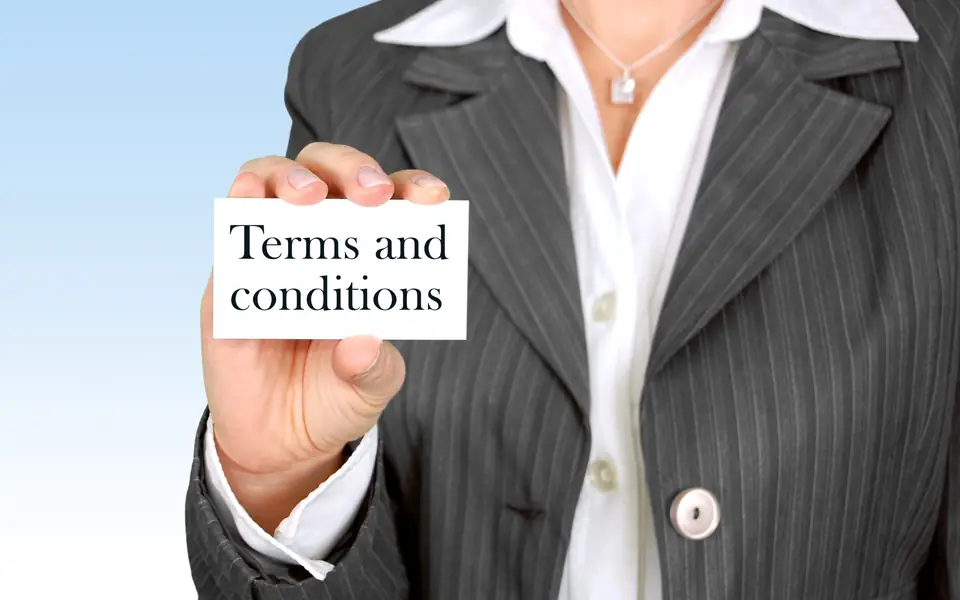
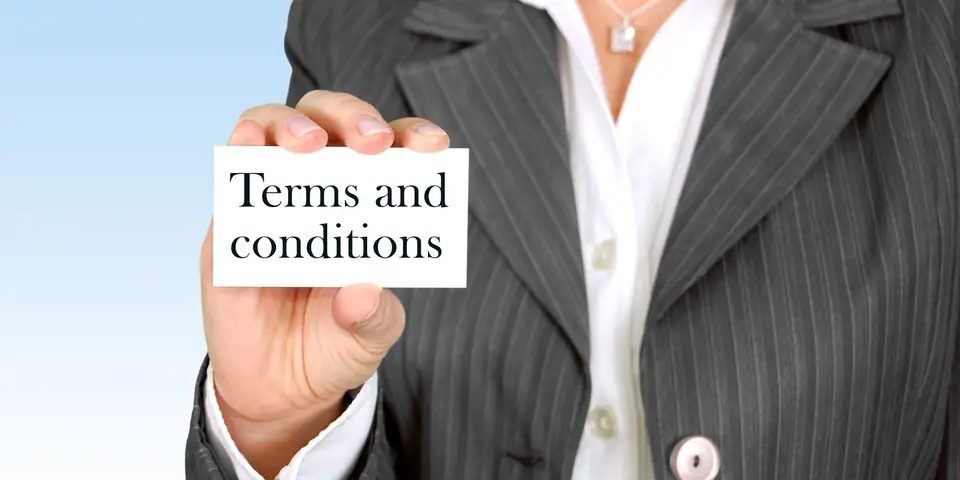
Todas las fotos en la misma proporción, marcos rectos y versión en estilos y guion

diff --git a/parte-1-isr.html b/parte-1-isr.html
@@ -9,7 +9,7 @@
 <link rel="preconnect" href="https://fonts.gstatic.com" crossorigin>
 <link rel="preload" as="style" href="https://fonts.googleapis.com/css2?family=Caveat:wght@500..700&family=Open+Sans:ital,wght@0,400..800;1,400&family=Playfair+Display:ital,wght@0,500..700;1,600&display=swap" onload="this.onload=null;this.rel='stylesheet'">
 <noscript><link rel="stylesheet" href="https://fonts.googleapis.com/css2?family=Caveat:wght@500..700&family=Open+Sans:ital,wght@0,400..800;1,400&family=Playfair+Display:ital,wght@0,500..700;1,600&display=swap"></noscript>
-<link rel="stylesheet" href="assets/estilos.css">
+<link rel="stylesheet" href="assets/estilos.css?v=0640c750">
 </head>
 <body>
 <a class="saltar" href="#contenido">Saltar al contenido</a>
@@ -34,7 +34,7 @@
   <p class="parte">Parte 1</p>
   <h1>Marco teórico de las ISR</h1>
   <p class="entradilla">Antes de mirar el índice hay que entender la idea que tiene detrás: invertir teniendo en cuenta algo más que el beneficio.</p>
-  <figure class="foto-banda"><img data-foto src="https://images.unsplash.com/photo-1579621970563-ebec7560ff3e?auto=format&amp;fit=crop&amp;w=1920&amp;h=810&amp;q=70" srcset="https://images.unsplash.com/photo-1579621970563-ebec7560ff3e?auto=format&amp;fit=crop&amp;w=640&amp;h=270&amp;q=70 640w, https://images.unsplash.com/photo-1579621970563-ebec7560ff3e?auto=format&amp;fit=crop&amp;w=1280&amp;h=540&amp;q=70 1280w, https://images.unsplash.com/photo-1579621970563-ebec7560ff3e?auto=format&amp;fit=crop&amp;w=1920&amp;h=810&amp;q=70 1920w" sizes="(max-width: 66rem) 94vw, 60rem" width="1920" height="810" alt="Una planta pequeña que crece sobre un montón de monedas." decoding="async"><figcaption><span class="foto-banda__pie">que el dinero también haga crecer algo</span><span class="foto-banda__credito">Foto: <a href="https://unsplash.com/photos/green-plant-on-brown-round-coins-lZ_4nPFKcV8">Micheile Henderson</a>, Unsplash</span></figcaption></figure>
+  <figure class="foto-banda"><img data-foto src="https://images.unsplash.com/photo-1579621970563-ebec7560ff3e?auto=format&amp;fit=crop&amp;w=1600&amp;h=800&amp;q=70" srcset="https://images.unsplash.com/photo-1579621970563-ebec7560ff3e?auto=format&amp;fit=crop&amp;w=800&amp;h=400&amp;q=70 800w, https://images.unsplash.com/photo-1579621970563-ebec7560ff3e?auto=format&amp;fit=crop&amp;w=1600&amp;h=800&amp;q=70 1600w" sizes="(max-width: 50rem) 92vw, 46rem" width="1600" height="800" alt="Una planta pequeña que crece sobre un montón de monedas." decoding="async"><figcaption><span class="foto-banda__pie">que el dinero también haga crecer algo</span><span class="foto-banda__credito">Foto: <a href="https://unsplash.com/photos/green-plant-on-brown-round-coins-lZ_4nPFKcV8">Micheile Henderson</a>, Unsplash</span></figcaption></figure>
   <ul class="indice-pagina">
     <li><a href="#definicion">1. Definición y características</a></li>
     <li><a href="#evolucion">Evolución histórica</a></li>
@@ -282,17 +282,17 @@
     <h3><span class="letra letra--e" aria-hidden="true">E</span>Factores ambientales</h3>
     <div class="rejilla rejilla--3">
       <article class="factor factor--e factor--foto">
-        <img class="factor__foto" data-foto src="https://images.unsplash.com/photo-1553897597-1cdcec3d8b29?auto=format&amp;fit=crop&amp;w=960&amp;h=600&amp;q=70" srcset="https://images.unsplash.com/photo-1553897597-1cdcec3d8b29?auto=format&amp;fit=crop&amp;w=480&amp;h=300&amp;q=70 480w, https://images.unsplash.com/photo-1553897597-1cdcec3d8b29?auto=format&amp;fit=crop&amp;w=960&amp;h=600&amp;q=70 960w" sizes="(max-width: 56rem) 92vw, 20rem" width="960" height="600" alt="Tres aerogeneradores blancos en un campo verde." loading="lazy" decoding="async">
+        <div class="factor__marco"><img class="factor__foto" data-foto src="https://images.unsplash.com/photo-1553897597-1cdcec3d8b29?auto=format&amp;fit=crop&amp;w=960&amp;h=480&amp;q=70" srcset="https://images.unsplash.com/photo-1553897597-1cdcec3d8b29?auto=format&amp;fit=crop&amp;w=480&amp;h=240&amp;q=70 480w, https://images.unsplash.com/photo-1553897597-1cdcec3d8b29?auto=format&amp;fit=crop&amp;w=960&amp;h=480&amp;q=70 960w" sizes="(max-width: 56rem) 92vw, 20rem" width="960" height="480" alt="Tres aerogeneradores blancos en un campo verde." loading="lazy" decoding="async"></div>
         <div class="factor__cartel"><div class="disco"><svg class="ilu" viewBox="0 0 48 48" aria-hidden="true"><path d="M24 6v22" stroke="currentColor" stroke-width="8" stroke-linecap="round"/><circle cx="24" cy="35" r="9" fill="currentColor"/><circle cx="24" cy="35" r="4" fill="#f08c3a"/><path d="M34 10h6M34 18h6M34 26h6" stroke="currentColor" stroke-width="2.5" stroke-linecap="round"/></svg></div><small>E · Ambiental</small><strong>Cambio climático</strong><span>Menos emisiones</span></div>
         <div class="factor__texto">Hoy es el factor principal. Se mira cuántos gases de efecto invernadero emite la empresa, si tiene un objetivo de cero emisiones y cuánta energía renovable usa.<br><span class="indicador">Indicador: emisiones de alcance 1, 2 y 3</span></div>
       </article>
       <article class="factor factor--e factor--foto">
-        <img class="factor__foto" data-foto src="assets/fotos/troncos-960.webp" srcset="assets/fotos/troncos-480.webp 480w, assets/fotos/troncos-960.webp 960w" sizes="(max-width: 56rem) 92vw, 20rem" width="960" height="600" alt="Troncos de madera apilados tras una tala." loading="lazy" decoding="async">
+        <div class="factor__marco"><img class="factor__foto" data-foto src="assets/fotos/troncos-960.webp" srcset="assets/fotos/troncos-480.webp 480w, assets/fotos/troncos-960.webp 960w" sizes="(max-width: 56rem) 92vw, 20rem" width="960" height="480" alt="Troncos de madera apilados tras una tala." loading="lazy" decoding="async"></div>
         <div class="factor__cartel"><div class="disco"><svg class="ilu" viewBox="0 0 48 48" aria-hidden="true"><g fill="none" stroke="currentColor" stroke-width="3.5" stroke-linecap="round" stroke-linejoin="round"><path d="M8 22a16 16 0 0 1 28-8"/><path d="M40 26a16 16 0 0 1-28 8"/></g><path d="M38 6v10H28z" fill="#f08c3a"/><path d="M10 42V32h10z" fill="#f08c3a"/></svg></div><small>E · Ambiental</small><strong>Gestión de recursos</strong><span>Agua, energía y residuos</span></div>
         <div class="factor__texto">Cómo gestiona el agua, la energía y las materias primas, y qué hace con los residuos. Si los reutiliza, avanza hacia una economía circular.<br><span class="indicador">Indicador: % de electricidad renovable</span></div>
       </article>
       <article class="factor factor--e factor--foto">
-        <img class="factor__foto" data-foto src="assets/fotos/puerto-960.webp" srcset="assets/fotos/puerto-480.webp 480w, assets/fotos/puerto-960.webp 960w" sizes="(max-width: 56rem) 92vw, 20rem" width="960" height="600" alt="Barcas de pesca amarradas en un puerto con el agua cubierta de plásticos." loading="lazy" decoding="async">
+        <div class="factor__marco"><img class="factor__foto" data-foto src="assets/fotos/puerto-960.webp" srcset="assets/fotos/puerto-480.webp 480w, assets/fotos/puerto-960.webp 960w" sizes="(max-width: 56rem) 92vw, 20rem" width="960" height="480" alt="Barcas de pesca amarradas en un puerto con el agua cubierta de plásticos." loading="lazy" decoding="async"></div>
         <div class="factor__cartel"><div class="disco"><svg class="ilu" viewBox="0 0 48 48" aria-hidden="true"><path d="M8 40C8 20 20 8 42 6c-2 22-14 34-34 34z" fill="none" stroke="currentColor" stroke-width="3.5" stroke-linejoin="round"/><path d="M8 40L28 20" stroke="currentColor" stroke-width="3.5" stroke-linecap="round"/><circle cx="34" cy="14" r="3.5" fill="#f08c3a"/></svg></div><small>E · Ambiental</small><strong>Biodiversidad</strong><span>Ecosistemas y especies</span></div>
         <div class="factor__texto">El efecto de su actividad sobre bosques, océanos y especies. Pesa más en sectores como la agricultura, la ganadería o la minería, donde también cuenta el trato a los animales.<br><span class="indicador">Indicador: hectáreas protegidas o restauradas</span></div>
       </article>
@@ -302,17 +302,17 @@
     <h3><span class="letra letra--s" aria-hidden="true">S</span>Factores sociales</h3>
     <div class="rejilla rejilla--3">
       <article class="factor factor--s factor--foto">
-        <img class="factor__foto" data-foto src="https://images.unsplash.com/photo-1746395592054-dc3aed101f72?auto=format&amp;fit=crop&amp;w=960&amp;h=600&amp;q=70" srcset="https://images.unsplash.com/photo-1746395592054-dc3aed101f72?auto=format&amp;fit=crop&amp;w=480&amp;h=300&amp;q=70 480w, https://images.unsplash.com/photo-1746395592054-dc3aed101f72?auto=format&amp;fit=crop&amp;w=960&amp;h=600&amp;q=70 960w" sizes="(max-width: 56rem) 92vw, 20rem" width="960" height="600" alt="Manos cosiendo prendas con máquinas de coser en un taller." loading="lazy" decoding="async">
+        <div class="factor__marco"><img class="factor__foto" data-foto src="https://images.unsplash.com/photo-1746395592054-dc3aed101f72?auto=format&amp;fit=crop&amp;w=960&amp;h=480&amp;q=70" srcset="https://images.unsplash.com/photo-1746395592054-dc3aed101f72?auto=format&amp;fit=crop&amp;w=480&amp;h=240&amp;q=70 480w, https://images.unsplash.com/photo-1746395592054-dc3aed101f72?auto=format&amp;fit=crop&amp;w=960&amp;h=480&amp;q=70 960w" sizes="(max-width: 56rem) 92vw, 20rem" width="960" height="480" alt="Manos cosiendo prendas con máquinas de coser en un taller." loading="lazy" decoding="async"></div>
         <div class="factor__cartel"><div class="disco"><svg class="ilu" viewBox="0 0 48 48" aria-hidden="true"><path d="M24 4l16 6v12c0 10-6 18-16 22C14 40 8 32 8 22V10z" fill="none" stroke="currentColor" stroke-width="3.5" stroke-linejoin="round"/><path d="M16 23l6 6 11-12" fill="none" stroke="#f08c3a" stroke-width="4" stroke-linecap="round" stroke-linejoin="round"/></svg></div><small>S · Social</small><strong>Derechos humanos</strong><span>Sin trabajo forzoso ni infantil</span></div>
         <div class="factor__texto">Se comprueba que no se vulneran en la empresa ni en sus proveedores, sobre todo los riesgos más típicos: el trabajo forzoso y el infantil. La referencia son los Principios Rectores de la ONU.<br><span class="indicador">Indicador: auditorías sociales realizadas</span></div>
       </article>
       <article class="factor factor--s factor--foto">
-        <img class="factor__foto" data-foto src="assets/fotos/condiciones-960.webp" srcset="assets/fotos/condiciones-480.webp 480w, assets/fotos/condiciones-960.webp 960w" sizes="(max-width: 56rem) 92vw, 20rem" width="960" height="600" alt="Una persona con traje sostiene una tarjeta con el texto «Terms and conditions»." loading="lazy" decoding="async">
+        <div class="factor__marco"><img class="factor__foto" data-foto src="assets/fotos/condiciones-960.webp" srcset="assets/fotos/condiciones-480.webp 480w, assets/fotos/condiciones-960.webp 960w" sizes="(max-width: 56rem) 92vw, 20rem" width="960" height="480" alt="Una persona con traje sostiene una tarjeta con el texto «Terms and conditions»." loading="lazy" decoding="async"></div>
         <div class="factor__cartel"><div class="disco"><svg class="ilu" viewBox="0 0 48 48" aria-hidden="true"><rect x="5" y="15" width="38" height="25" rx="3" fill="none" stroke="currentColor" stroke-width="3.5"/><path d="M17 15v-5a2 2 0 0 1 2-2h10a2 2 0 0 1 2 2v5" fill="none" stroke="currentColor" stroke-width="3.5"/><path d="M5 26h38" stroke="currentColor" stroke-width="3"/><rect x="20" y="23" width="8" height="6" rx="1" fill="#f08c3a"/></svg></div><small>S · Social</small><strong>Condiciones laborales</strong><span>Seguridad y salario digno</span></div>
         <div class="factor__texto">Cómo se trata al trabajador: seguridad, salud mental, flexibilidad de horario y un salario digno por el trabajo realizado.<br><span class="indicador">Indicador: % de contratos indefinidos</span></div>
       </article>
       <article class="factor factor--s factor--foto">
-        <img class="factor__foto" data-foto src="assets/fotos/imanes-960.webp" srcset="assets/fotos/imanes-480.webp 480w, assets/fotos/imanes-960.webp 960w" sizes="(max-width: 56rem) 92vw, 20rem" width="960" height="600" alt="Puerta de un frigorífico cubierta de imanes de recuerdo de muchos países." loading="lazy" decoding="async">
+        <div class="factor__marco"><img class="factor__foto" data-foto src="assets/fotos/imanes-960.webp" srcset="assets/fotos/imanes-480.webp 480w, assets/fotos/imanes-960.webp 960w" sizes="(max-width: 56rem) 92vw, 20rem" width="960" height="480" alt="Puerta de un frigorífico cubierta de imanes de recuerdo de muchos países." loading="lazy" decoding="async"></div>
         <div class="factor__cartel"><div class="disco"><svg class="ilu" viewBox="0 0 56 48" aria-hidden="true"><g fill="currentColor"><circle cx="12" cy="16" r="6"/><path d="M2 40a10 10 0 0 1 20 0z"/><circle cx="44" cy="16" r="6"/><path d="M34 40a10 10 0 0 1 20 0z"/></g><circle cx="28" cy="12" r="7" fill="#f08c3a"/><path d="M16 42a12 12 0 0 1 24 0z" fill="#f08c3a"/></svg></div><small>S · Social</small><strong>Diversidad</strong><span>Igualdad sin discriminación</span></div>
         <div class="factor__texto">Que personas con discapacidad, de otras etnias y mujeres trabajen sin discriminación, y que se reduzca la brecha salarial entre hombres y mujeres.<br><span class="indicador">Indicador: % de mujeres en puestos directivos</span></div>
       </article>
@@ -322,17 +322,17 @@
     <h3><span class="letra letra--g" aria-hidden="true">G</span>Factores de gobernanza</h3>
     <div class="rejilla rejilla--3">
       <article class="factor factor--g factor--foto">
-        <img class="factor__foto" data-foto src="https://images.unsplash.com/photo-1431540015161-0bf868a2d407?auto=format&amp;fit=crop&amp;w=960&amp;h=600&amp;q=70" srcset="https://images.unsplash.com/photo-1431540015161-0bf868a2d407?auto=format&amp;fit=crop&amp;w=480&amp;h=300&amp;q=70 480w, https://images.unsplash.com/photo-1431540015161-0bf868a2d407?auto=format&amp;fit=crop&amp;w=960&amp;h=600&amp;q=70 960w" sizes="(max-width: 56rem) 92vw, 20rem" width="960" height="600" alt="Sala de juntas vacía con una mesa ovalada de madera y sillas alrededor." loading="lazy" decoding="async">
+        <div class="factor__marco"><img class="factor__foto" data-foto src="https://images.unsplash.com/photo-1431540015161-0bf868a2d407?auto=format&amp;fit=crop&amp;w=960&amp;h=480&amp;q=70" srcset="https://images.unsplash.com/photo-1431540015161-0bf868a2d407?auto=format&amp;fit=crop&amp;w=480&amp;h=240&amp;q=70 480w, https://images.unsplash.com/photo-1431540015161-0bf868a2d407?auto=format&amp;fit=crop&amp;w=960&amp;h=480&amp;q=70 960w" sizes="(max-width: 56rem) 92vw, 20rem" width="960" height="480" alt="Sala de juntas vacía con una mesa ovalada de madera y sillas alrededor." loading="lazy" decoding="async"></div>
         <div class="factor__cartel"><div class="disco"><svg class="ilu" viewBox="0 0 56 48" aria-hidden="true"><rect x="20" y="4" width="16" height="11" rx="2" fill="#f08c3a"/><path d="M28 15v9M9 32v-8h38v8M28 24v8" fill="none" stroke="currentColor" stroke-width="3"/><g fill="currentColor"><rect x="2" y="32" width="14" height="11" rx="2"/><rect x="21" y="32" width="14" height="11" rx="2"/><rect x="40" y="32" width="14" height="11" rx="2"/></g></svg></div><small>G · Gobernanza</small><strong>Estructura directiva</strong><span>Un consejo equilibrado</span></div>
         <div class="factor__texto">Quién compone el consejo de administración, cuántos consejeros son independientes y si los sueldos de los altos directivos están justificados.<br><span class="indicador">Indicador: % de consejeros independientes</span></div>
       </article>
       <article class="factor factor--g factor--foto">
-        <img class="factor__foto" data-foto src="https://images.unsplash.com/photo-1609877992115-8cd060c2e9e4?auto=format&amp;fit=crop&amp;w=960&amp;h=600&amp;q=70" srcset="https://images.unsplash.com/photo-1609877992115-8cd060c2e9e4?auto=format&amp;fit=crop&amp;w=480&amp;h=300&amp;q=70 480w, https://images.unsplash.com/photo-1609877992115-8cd060c2e9e4?auto=format&amp;fit=crop&amp;w=960&amp;h=600&amp;q=70 960w" sizes="(max-width: 56rem) 92vw, 20rem" width="960" height="600" alt="Una lupa negra apoyada sobre hojas de papel." loading="lazy" decoding="async">
+        <div class="factor__marco"><img class="factor__foto" data-foto src="https://images.unsplash.com/photo-1609877992115-8cd060c2e9e4?auto=format&amp;fit=crop&amp;w=960&amp;h=480&amp;q=70" srcset="https://images.unsplash.com/photo-1609877992115-8cd060c2e9e4?auto=format&amp;fit=crop&amp;w=480&amp;h=240&amp;q=70 480w, https://images.unsplash.com/photo-1609877992115-8cd060c2e9e4?auto=format&amp;fit=crop&amp;w=960&amp;h=480&amp;q=70 960w" sizes="(max-width: 56rem) 92vw, 20rem" width="960" height="480" alt="Una lupa negra apoyada sobre hojas de papel." loading="lazy" decoding="async"></div>
         <div class="factor__cartel"><div class="disco"><svg class="ilu" viewBox="0 0 64 48" aria-hidden="true"><path d="M4 24c8-12 18-17 28-17s20 5 28 17c-8 12-18 17-28 17S12 36 4 24z" fill="none" stroke="currentColor" stroke-width="4" stroke-linejoin="round"/><circle cx="32" cy="24" r="9" fill="#f08c3a"/><circle cx="32" cy="24" r="3.5" fill="currentColor"/></svg></div><small>G · Gobernanza</small><strong>Transparencia</strong><span>Cuentas claras y públicas</span></div>
         <div class="factor__texto">Si la empresa informa bien de sus cuentas y de sus riesgos: informes financieros, datos ESG e informe de sostenibilidad.<br><span class="indicador">Indicador: informe de sostenibilidad verificado</span></div>
       </article>
       <article class="factor factor--g factor--foto">
-        <img class="factor__foto" data-foto src="https://images.unsplash.com/photo-1587740896339-96a76170508d?auto=format&amp;fit=crop&amp;w=960&amp;h=600&amp;q=70" srcset="https://images.unsplash.com/photo-1587740896339-96a76170508d?auto=format&amp;fit=crop&amp;w=480&amp;h=300&amp;q=70 480w, https://images.unsplash.com/photo-1587740896339-96a76170508d?auto=format&amp;fit=crop&amp;w=960&amp;h=600&amp;q=70 960w" sizes="(max-width: 56rem) 92vw, 20rem" width="960" height="600" alt="Una pequeña balanza dorada sobre una superficie de madera." loading="lazy" decoding="async">
+        <div class="factor__marco"><img class="factor__foto" data-foto src="https://images.unsplash.com/photo-1587740896339-96a76170508d?auto=format&amp;fit=crop&amp;w=960&amp;h=480&amp;q=70" srcset="https://images.unsplash.com/photo-1587740896339-96a76170508d?auto=format&amp;fit=crop&amp;w=480&amp;h=240&amp;q=70 480w, https://images.unsplash.com/photo-1587740896339-96a76170508d?auto=format&amp;fit=crop&amp;w=960&amp;h=480&amp;q=70 960w" sizes="(max-width: 56rem) 92vw, 20rem" width="960" height="480" alt="Una pequeña balanza dorada sobre una superficie de madera." loading="lazy" decoding="async"></div>
         <div class="factor__cartel"><div class="disco"><svg class="ilu" viewBox="0 0 56 48" aria-hidden="true"><g fill="none" stroke="currentColor" stroke-width="3" stroke-linecap="round" stroke-linejoin="round"><path d="M28 6v34M20 42h16M8 12h40M12 12L6 26M12 12l6 14M44 12l-6 14M44 12l6 14"/></g><path d="M5 26h14a7 7 0 0 1-14 0zM37 26h14a7 7 0 0 1-14 0z" fill="#f08c3a"/></svg></div><small>G · Gobernanza</small><strong>Ética empresarial</strong><span>Sin corrupción ni fraude</span></div>
         <div class="factor__texto">Que no esté implicada en casos de corrupción o soborno, que tenga un código ético y un canal de denuncias anónimo para los empleados.<br><span class="indicador">Indicador: código de conducta y canal ético</span></div>
       </article>
@@ -363,6 +363,6 @@
 <p class="pie">Trabajo de clase elaborado por Marcos Ramos, Gonzalo Redondo, Jaime Ramos y Victor Cerveros. Las cifras llevan su fecha y su fuente; la lista completa está en <a href="referencias.html">Referencias y webs</a>.</p>
 </main>
 </div>
-<script src="assets/sitio.js" defer></script>
+<script src="assets/sitio.js?v=0640c750" defer></script>
 </body>
 </html>

diff --git a/assets/estilos.css b/assets/estilos.css
@@ -720,21 +720,25 @@ h3 { font-weight: 600; color: var(--azul-titulo); }
 .escalera .nota { max-width: none; }
 
 /* =====================================================================
-   Fotografías: en las tarjetas de factor y a lo ancho en cabeceras
+   Fotografías: todas en la misma proporción (2:1, la de las láminas
+   del carrusel) y con el marco recto, sin salirse de su caja
    ===================================================================== */
 
-/* Tarjeta de factor con foto arriba y el icono montado sobre el borde */
-.factor__foto { display: block; width: 100%; height: auto; aspect-ratio: 8 / 5; object-fit: cover; background: var(--lavanda-suave); }
+:root { --foto: 2 / 1; }
+
+/* Tarjeta de factor: foto arriba y el icono montado sobre el borde */
+.factor__marco { aspect-ratio: var(--foto); overflow: hidden; background: var(--lavanda-suave); }
+.factor__foto { display: block; width: 100%; height: 100%; object-fit: cover; }
 .factor--foto .factor__cartel { padding-top: 0; gap: 0.35rem; }
 .factor--foto .factor__cartel .disco { width: 4.4rem; height: 4.4rem; margin-top: -2.2rem; margin-bottom: 0.25rem; border: 4px solid var(--c); position: relative; }
 .factor--foto .factor__cartel .disco .ilu { width: 2.4rem; height: 2.4rem; }
+/* Si la foto no carga, queda un bloque del color del factor con la misma medida */
+.factor--sin-foto .factor__marco { background: var(--c); }
 .factor--sin-foto .factor__foto { display: none; }
-.factor--sin-foto .factor__cartel { padding-top: 1.1rem; }
-.factor--sin-foto .factor__cartel .disco { margin-top: 0; }
 
-/* Foto ancha: copia en papel un poco torcida, sujeta con cinta y con pie a mano */
-.foto-banda { position: relative; margin: var(--e3) auto 0; max-width: 60rem; }
-.foto-banda img { display: block; width: 100%; height: auto; aspect-ratio: 64 / 27; object-fit: cover; background: var(--lavanda-suave); border: 0.45rem solid #fff; border-radius: 3px; box-shadow: 0 0 0 1.5px var(--tinta), 5px 6px 0 var(--lavanda); transform: rotate(-0.5deg); }
+/* Foto ancha: copia en papel sujeta con cinta y con pie a mano */
+.foto-banda { position: relative; margin: var(--e3) auto 0; max-width: 46rem; }
+.foto-banda img { display: block; box-sizing: border-box; width: 100%; height: auto; aspect-ratio: var(--foto); object-fit: cover; background: var(--lavanda-suave); border: 0.4rem solid #fff; border-radius: 3px; box-shadow: 0 0 0 1.5px var(--tinta), 5px 6px 0 var(--lavanda); }
 .foto-banda::before { content: ""; position: absolute; z-index: 1; top: -0.7rem; left: 50%; width: 6rem; height: 1.5rem; margin-left: -3rem; background: rgba(240, 140, 58, 0.72); transform: rotate(-2.5deg); }
 .foto-banda figcaption { display: flex; flex-wrap: wrap; justify-content: center; align-items: baseline; gap: 0.2rem 0.9rem; margin-top: 1rem; }
 .foto-banda__pie { font-family: var(--mano); font-weight: 600; font-size: 1.4rem; line-height: 1.15; color: var(--pino); }
@@ -742,9 +746,12 @@ h3 { font-weight: 600; color: var(--azul-titulo); }
 .foto-banda__credito a { color: inherit; }
 .cabecera .foto-banda + .indice-pagina { margin-top: var(--e3); }
 .seccion > .foto-banda { margin-top: var(--e3); }
-.seccion:nth-of-type(even) > .foto-banda img, .cabecera + .seccion > .foto-banda img { transform: rotate(0.5deg); }
+
+/* El carrusel usa la misma proporción y tampoco deja que la lámina se salga */
+.carrusel__lamina { aspect-ratio: var(--foto); overflow: hidden; }
+.carrusel__lamina img { width: 100%; height: 100%; object-fit: cover; }
 
 @media (max-width: 56rem) {
-  .foto-banda img { aspect-ratio: 16 / 9; border-width: 0.3rem; transform: none; box-shadow: 0 0 0 1.5px var(--tinta), 3px 4px 0 var(--lavanda); }
+  .foto-banda img { border-width: 0.3rem; box-shadow: 0 0 0 1.5px var(--tinta), 3px 4px 0 var(--lavanda); }
   .foto-banda__pie { font-size: 1.25rem; }
 }

diff --git a/index.html b/index.html
@@ -9,7 +9,7 @@
 <link rel="preconnect" href="https://fonts.gstatic.com" crossorigin>
 <link rel="preload" as="style" href="https://fonts.googleapis.com/css2?family=Caveat:wght@500..700&family=Open+Sans:ital,wght@0,400..800;1,400&family=Playfair+Display:ital,wght@0,500..700;1,600&display=swap" onload="this.onload=null;this.rel='stylesheet'">
 <noscript><link rel="stylesheet" href="https://fonts.googleapis.com/css2?family=Caveat:wght@500..700&family=Open+Sans:ital,wght@0,400..800;1,400&family=Playfair+Display:ital,wght@0,500..700;1,600&display=swap"></noscript>
-<link rel="stylesheet" href="assets/estilos.css">
+<link rel="stylesheet" href="assets/estilos.css?v=0640c750">
 </head>
 <body>
 <a class="saltar" href="#contenido">Saltar al contenido</a>
@@ -65,7 +65,7 @@
   <p>Durante décadas, invertir consistía en comparar dos cosas: cuánto se puede ganar y cuánto riesgo se asume. Hoy muchos inversores añaden una tercera pregunta: qué efecto tiene la empresa sobre el medio ambiente, sobre las personas y cómo está gobernada.</p>
   <p>Esa tercera pregunta es la base de las Inversiones Socialmente Responsables. Para responderla hacen falta datos comparables, y ahí entran los índices sostenibles como el IBEX ESG: convierten la sostenibilidad en una lista concreta de empresas que cumplen unas reglas.</p>
 
-  <figure class="foto-banda"><img data-foto src="https://images.unsplash.com/photo-1767424412548-1a1ac7f4b9bc?auto=format&amp;fit=crop&amp;w=1920&amp;h=810&amp;q=70" srcset="https://images.unsplash.com/photo-1767424412548-1a1ac7f4b9bc?auto=format&amp;fit=crop&amp;w=640&amp;h=270&amp;q=70 640w, https://images.unsplash.com/photo-1767424412548-1a1ac7f4b9bc?auto=format&amp;fit=crop&amp;w=1280&amp;h=540&amp;q=70 1280w, https://images.unsplash.com/photo-1767424412548-1a1ac7f4b9bc?auto=format&amp;fit=crop&amp;w=1920&amp;h=810&amp;q=70 1920w" sizes="(max-width: 66rem) 94vw, 60rem" width="1920" height="810" alt="Gráficos de cotización en varias pantallas y una tableta." decoding="async"><figcaption><span class="foto-banda__pie">durante décadas solo se miraban dos cosas: rentabilidad y riesgo</span><span class="foto-banda__credito">Foto: <a href="https://unsplash.com/photos/trading-charts-displayed-on-multiple-screens-and-tablet-vKNRKjSNbTo">Jakub Żerdzicki</a>, Unsplash</span></figcaption></figure>
+  <figure class="foto-banda"><img data-foto src="https://images.unsplash.com/photo-1767424412548-1a1ac7f4b9bc?auto=format&amp;fit=crop&amp;w=1600&amp;h=800&amp;q=70" srcset="https://images.unsplash.com/photo-1767424412548-1a1ac7f4b9bc?auto=format&amp;fit=crop&amp;w=800&amp;h=400&amp;q=70 800w, https://images.unsplash.com/photo-1767424412548-1a1ac7f4b9bc?auto=format&amp;fit=crop&amp;w=1600&amp;h=800&amp;q=70 1600w" sizes="(max-width: 50rem) 92vw, 46rem" width="1600" height="800" alt="Gráficos de cotización en varias pantallas y una tableta." decoding="async"><figcaption><span class="foto-banda__pie">durante décadas solo se miraban dos cosas: rentabilidad y riesgo</span><span class="foto-banda__credito">Foto: <a href="https://unsplash.com/photos/trading-charts-displayed-on-multiple-screens-and-tablet-vKNRKjSNbTo">Jakub Żerdzicki</a>, Unsplash</span></figcaption></figure>
 
   <div class="cambio">
     <div>
@@ -137,6 +137,6 @@
 <p class="pie">Trabajo de clase elaborado por Marcos Ramos, Gonzalo Redondo, Jaime Ramos y Victor Cerveros. Las cifras llevan su fecha y su fuente; la lista completa está en <a href="referencias.html">Referencias y webs</a>.</p>
 </main>
 </div>
-<script src="assets/sitio.js" defer></script>
+<script src="assets/sitio.js?v=0640c750" defer></script>
 </body>
 </html>

diff --git a/parte-4-reflexion.html b/parte-4-reflexion.html
@@ -9,7 +9,7 @@
 <link rel="preconnect" href="https://fonts.gstatic.com" crossorigin>
 <link rel="preload" as="style" href="https://fonts.googleapis.com/css2?family=Caveat:wght@500..700&family=Open+Sans:ital,wght@0,400..800;1,400&family=Playfair+Display:ital,wght@0,500..700;1,600&display=swap" onload="this.onload=null;this.rel='stylesheet'">
 <noscript><link rel="stylesheet" href="https://fonts.googleapis.com/css2?family=Caveat:wght@500..700&family=Open+Sans:ital,wght@0,400..800;1,400&family=Playfair+Display:ital,wght@0,500..700;1,600&display=swap"></noscript>
-<link rel="stylesheet" href="assets/estilos.css">
+<link rel="stylesheet" href="assets/estilos.css?v=0640c750">
 </head>
 <body>
 <a class="saltar" href="#contenido">Saltar al contenido</a>
@@ -34,7 +34,7 @@
   <p class="parte">Parte 4</p>
   <h1>Reflexión crítica</h1>
   <p class="entradilla">Después de estudiar el índice y una de sus empresas, valoramos para qué sirve de verdad el IBEX ESG, qué deja sin resolver y hacia dónde va la inversión responsable en España.</p>
-  <figure class="foto-banda"><img data-foto src="https://images.unsplash.com/photo-1573166364839-1bfe9196c23e?auto=format&amp;fit=crop&amp;w=1920&amp;h=810&amp;q=70" srcset="https://images.unsplash.com/photo-1573166364839-1bfe9196c23e?auto=format&amp;fit=crop&amp;w=640&amp;h=270&amp;q=70 640w, https://images.unsplash.com/photo-1573166364839-1bfe9196c23e?auto=format&amp;fit=crop&amp;w=1280&amp;h=540&amp;q=70 1280w, https://images.unsplash.com/photo-1573166364839-1bfe9196c23e?auto=format&amp;fit=crop&amp;w=1920&amp;h=810&amp;q=70 1920w" sizes="(max-width: 66rem) 94vw, 60rem" width="1920" height="810" alt="Varias personas reunidas alrededor de una mesa de trabajo." decoding="async"><figcaption><span class="foto-banda__pie">toca debatir: ¿sirve de verdad el índice?</span><span class="foto-banda__credito">Foto: <a href="https://unsplash.com/photos/people-having-meeting-on-rectangular-brown-table-ftCWdZOFZqo">Christina (wocintechchat.com)</a>, Unsplash</span></figcaption></figure>
+  <figure class="foto-banda"><img data-foto src="https://images.unsplash.com/photo-1573166364839-1bfe9196c23e?auto=format&amp;fit=crop&amp;w=1600&amp;h=800&amp;q=70" srcset="https://images.unsplash.com/photo-1573166364839-1bfe9196c23e?auto=format&amp;fit=crop&amp;w=800&amp;h=400&amp;q=70 800w, https://images.unsplash.com/photo-1573166364839-1bfe9196c23e?auto=format&amp;fit=crop&amp;w=1600&amp;h=800&amp;q=70 1600w" sizes="(max-width: 50rem) 92vw, 46rem" width="1600" height="800" alt="Varias personas reunidas alrededor de una mesa de trabajo." decoding="async"><figcaption><span class="foto-banda__pie">toca debatir: ¿sirve de verdad el índice?</span><span class="foto-banda__credito">Foto: <a href="https://unsplash.com/photos/people-having-meeting-on-rectangular-brown-table-ftCWdZOFZqo">Christina (wocintechchat.com)</a>, Unsplash</span></figcaption></figure>
   <ul class="indice-pagina">
     <li><a href="#ventajas-limitaciones">1. Ventajas y limitaciones</a></li>
     <li><a href="#competitividad">Impacto en la competitividad</a></li>
@@ -220,6 +220,6 @@
 <p class="pie">Trabajo de clase elaborado por Marcos Ramos, Gonzalo Redondo, Jaime Ramos y Victor Cerveros. Las cifras llevan su fecha y su fuente; la lista completa está en <a href="referencias.html">Referencias y webs</a>.</p>
 </main>
 </div>
-<script src="assets/sitio.js" defer></script>
+<script src="assets/sitio.js?v=0640c750" defer></script>
 </body>
 </html>

diff --git a/parte-2-ibex-esg.html b/parte-2-ibex-esg.html
@@ -9,7 +9,7 @@
 <link rel="preconnect" href="https://fonts.gstatic.com" crossorigin>
 <link rel="preload" as="style" href="https://fonts.googleapis.com/css2?family=Caveat:wght@500..700&family=Open+Sans:ital,wght@0,400..800;1,400&family=Playfair+Display:ital,wght@0,500..700;1,600&display=swap" onload="this.onload=null;this.rel='stylesheet'">
 <noscript><link rel="stylesheet" href="https://fonts.googleapis.com/css2?family=Caveat:wght@500..700&family=Open+Sans:ital,wght@0,400..800;1,400&family=Playfair+Display:ital,wght@0,500..700;1,600&display=swap"></noscript>
-<link rel="stylesheet" href="assets/estilos.css">
+<link rel="stylesheet" href="assets/estilos.css?v=0640c750">
 </head>
 <body>
 <a class="saltar" href="#contenido">Saltar al contenido</a>
@@ -34,7 +34,7 @@
   <p class="parte">Parte 2</p>
   <h1>Qué es el índice IBEX ESG</h1>
   <p class="entradilla">Un índice que parte de las empresas del IBEX 35 y del IBEX Medium Cap y se queda solo con las que superan cuatro filtros de sostenibilidad.</p>
-  <figure class="foto-banda"><img data-foto src="https://images.unsplash.com/photo-1639133037499-31d957fad7fd?auto=format&amp;fit=crop&amp;w=1920&amp;h=810&amp;q=70" srcset="https://images.unsplash.com/photo-1639133037499-31d957fad7fd?auto=format&amp;fit=crop&amp;w=640&amp;h=270&amp;q=70 640w, https://images.unsplash.com/photo-1639133037499-31d957fad7fd?auto=format&amp;fit=crop&amp;w=1280&amp;h=540&amp;q=70 1280w, https://images.unsplash.com/photo-1639133037499-31d957fad7fd?auto=format&amp;fit=crop&amp;w=1920&amp;h=810&amp;q=70 1920w" sizes="(max-width: 66rem) 94vw, 60rem" width="1920" height="810" alt="Fachada con columnas de la Bolsa de Madrid, en blanco y negro." decoding="async"><figcaption><span class="foto-banda__pie">el Palacio de la Bolsa de Madrid, sede de BME</span><span class="foto-banda__credito">Foto: <a href="https://unsplash.com/photos/a-black-and-white-photo-of-a-building-with-columns-m1vk1Rn0my8">L’Odyssée Belle</a>, Unsplash</span></figcaption></figure>
+  <figure class="foto-banda"><img data-foto src="https://images.unsplash.com/photo-1639133037499-31d957fad7fd?auto=format&amp;fit=crop&amp;w=1600&amp;h=800&amp;q=70" srcset="https://images.unsplash.com/photo-1639133037499-31d957fad7fd?auto=format&amp;fit=crop&amp;w=800&amp;h=400&amp;q=70 800w, https://images.unsplash.com/photo-1639133037499-31d957fad7fd?auto=format&amp;fit=crop&amp;w=1600&amp;h=800&amp;q=70 1600w" sizes="(max-width: 50rem) 92vw, 46rem" width="1600" height="800" alt="Fachada con columnas de la Bolsa de Madrid, en blanco y negro." decoding="async"><figcaption><span class="foto-banda__pie">el Palacio de la Bolsa de Madrid, sede de BME</span><span class="foto-banda__credito">Foto: <a href="https://unsplash.com/photos/a-black-and-white-photo-of-a-building-with-columns-m1vk1Rn0my8">L’Odyssée Belle</a>, Unsplash</span></figcaption></figure>
   <ul class="indice-pagina">
     <li><a href="#caracteristicas">1. Características generales</a></li>
     <li><a href="#requisitos">2. Requisitos de inclusión</a></li>
@@ -327,6 +327,6 @@
 <p class="pie">Trabajo de clase elaborado por Marcos Ramos, Gonzalo Redondo, Jaime Ramos y Victor Cerveros. Las cifras llevan su fecha y su fuente; la lista completa está en <a href="referencias.html">Referencias y webs</a>.</p>
 </main>
 </div>
-<script src="assets/sitio.js" defer></script>
+<script src="assets/sitio.js?v=0640c750" defer></script>
 </body>
 </html>

diff --git a/parte-3-inditex.html b/parte-3-inditex.html
@@ -9,7 +9,7 @@
 <link rel="preconnect" href="https://fonts.gstatic.com" crossorigin>
 <link rel="preload" as="style" href="https://fonts.googleapis.com/css2?family=Caveat:wght@500..700&family=Open+Sans:ital,wght@0,400..800;1,400&family=Playfair+Display:ital,wght@0,500..700;1,600&display=swap" onload="this.onload=null;this.rel='stylesheet'">
 <noscript><link rel="stylesheet" href="https://fonts.googleapis.com/css2?family=Caveat:wght@500..700&family=Open+Sans:ital,wght@0,400..800;1,400&family=Playfair+Display:ital,wght@0,500..700;1,600&display=swap"></noscript>
-<link rel="stylesheet" href="assets/estilos.css">
+<link rel="stylesheet" href="assets/estilos.css?v=0640c750">
 </head>
 <body>
 <a class="saltar" href="#contenido">Saltar al contenido</a>
@@ -34,7 +34,7 @@
   <p class="parte">Parte 3</p>
   <h1>Análisis de empresa: Inditex</h1>
   <p class="entradilla">Elegimos una empresa del IBEX ESG para comprobar cómo se traducen los criterios E, S y G en decisiones, cifras e informes reales.</p>
-  <figure class="foto-banda"><img data-foto src="https://images.unsplash.com/photo-1632194978058-4f2f48bc68c2?auto=format&amp;fit=crop&amp;w=1920&amp;h=810&amp;q=70" srcset="https://images.unsplash.com/photo-1632194978058-4f2f48bc68c2?auto=format&amp;fit=crop&amp;w=640&amp;h=270&amp;q=70 640w, https://images.unsplash.com/photo-1632194978058-4f2f48bc68c2?auto=format&amp;fit=crop&amp;w=1280&amp;h=540&amp;q=70 1280w, https://images.unsplash.com/photo-1632194978058-4f2f48bc68c2?auto=format&amp;fit=crop&amp;w=1920&amp;h=810&amp;q=70 1920w" sizes="(max-width: 66rem) 94vw, 60rem" width="1920" height="810" alt="Camisetas de colores colgadas en el perchero de una tienda." decoding="async"><figcaption><span class="foto-banda__pie">la moda, un sector con mucho que mirar en E, S y G</span><span class="foto-banda__credito">Foto: <a href="https://unsplash.com/photos/a-rack-of-shirts-hanging-on-a-rack-in-a-store-hWdzH8YY8kk">Greg Rosenke</a>, Unsplash</span></figcaption></figure>
+  <figure class="foto-banda"><img data-foto src="https://images.unsplash.com/photo-1632194978058-4f2f48bc68c2?auto=format&amp;fit=crop&amp;w=1600&amp;h=800&amp;q=70" srcset="https://images.unsplash.com/photo-1632194978058-4f2f48bc68c2?auto=format&amp;fit=crop&amp;w=800&amp;h=400&amp;q=70 800w, https://images.unsplash.com/photo-1632194978058-4f2f48bc68c2?auto=format&amp;fit=crop&amp;w=1600&amp;h=800&amp;q=70 1600w" sizes="(max-width: 50rem) 92vw, 46rem" width="1600" height="800" alt="Camisetas de colores colgadas en el perchero de una tienda." decoding="async"><figcaption><span class="foto-banda__pie">la moda, un sector con mucho que mirar en E, S y G</span><span class="foto-banda__credito">Foto: <a href="https://unsplash.com/photos/a-rack-of-shirts-hanging-on-a-rack-in-a-store-hWdzH8YY8kk">Greg Rosenke</a>, Unsplash</span></figcaption></figure>
   <ul class="indice-pagina">
     <li><a href="#eleccion">Por qué Inditex</a></li>
     <li><a href="#sector">Sector y posición en el mercado</a></li>
@@ -259,6 +259,6 @@
 <p class="pie">Trabajo de clase elaborado por Marcos Ramos, Gonzalo Redondo, Jaime Ramos y Victor Cerveros. Las cifras llevan su fecha y su fuente; la lista completa está en <a href="referencias.html">Referencias y webs</a>.</p>
 </main>
 </div>
-<script src="assets/sitio.js" defer></script>
+<script src="assets/sitio.js?v=0640c750" defer></script>
 </body>
 </html>

diff --git a/referencias.html b/referencias.html
@@ -9,7 +9,7 @@
 <link rel="preconnect" href="https://fonts.gstatic.com" crossorigin>
 <link rel="preload" as="style" href="https://fonts.googleapis.com/css2?family=Caveat:wght@500..700&family=Open+Sans:ital,wght@0,400..800;1,400&family=Playfair+Display:ital,wght@0,500..700;1,600&display=swap" onload="this.onload=null;this.rel='stylesheet'">
 <noscript><link rel="stylesheet" href="https://fonts.googleapis.com/css2?family=Caveat:wght@500..700&family=Open+Sans:ital,wght@0,400..800;1,400&family=Playfair+Display:ital,wght@0,500..700;1,600&display=swap"></noscript>
-<link rel="stylesheet" href="assets/estilos.css">
+<link rel="stylesheet" href="assets/estilos.css?v=0640c750">
 </head>
 <body>
 <a class="saltar" href="#contenido">Saltar al contenido</a>
@@ -159,6 +159,6 @@
 <p class="pie">Trabajo de clase elaborado por Marcos Ramos, Gonzalo Redondo, Jaime Ramos y Victor Cerveros. Las cifras llevan su fecha y su fuente; la lista completa está en <a href="referencias.html">Referencias y webs</a>.</p>
 </main>
 </div>
-<script src="assets/sitio.js" defer></script>
+<script src="assets/sitio.js?v=0640c750" defer></script>
 </body>
 </html>

diff --git a/fuente/build.py b/fuente/build.py
@@ -1,5 +1,6 @@
 #!/usr/bin/env python3
 """Monta el sitio estático: une cada fragmento de src/ con la plantilla común."""
+import hashlib
 import re
 from pathlib import Path
 
@@ -109,19 +110,19 @@ def _fuentes(clave: str, anchos: tuple, alto_por_ancho: float) -> tuple:
 
 
 def foto_tarjeta(clave: str) -> str:
-    """Foto de la parte alta de una tarjeta de factor (formato 8:5)."""
-    src, srcset = _fuentes(clave, (480, 960), 5 / 8)
+    """Foto de la parte alta de una tarjeta de factor (formato 2:1)."""
+    src, srcset = _fuentes(clave, (480, 960), 1 / 2)
     alt = FOTOS[clave][4]
-    return (f'<img class="factor__foto" data-foto src="{src}" srcset="{srcset}" '
-            f'sizes="(max-width: 56rem) 92vw, 20rem" width="960" height="600" alt="{alt}" loading="lazy" decoding="async">')
+    return (f'<div class="factor__marco"><img class="factor__foto" data-foto src="{src}" srcset="{srcset}" '
+            f'sizes="(max-width: 56rem) 92vw, 20rem" width="960" height="480" alt="{alt}" loading="lazy" decoding="async"></div>')
 
 
 def foto_banda(clave: str, pie: str) -> str:
-    """Foto ancha con pie a mano y crédito (formato 21:9)."""
-    src, srcset = _fuentes(clave, (640, 1280, 1920), 27 / 64)
+    """Foto ancha con pie a mano y crédito (formato 2:1)."""
+    src, srcset = _fuentes(clave, (800, 1600), 1 / 2)
     _, _, autor, pagina, alt, _ = FOTOS[clave]
     return (f'<figure class="foto-banda"><img data-foto src="{src}" srcset="{srcset}" '
-            f'sizes="(max-width: 66rem) 94vw, 60rem" width="1920" height="810" alt="{alt}" decoding="async">'
+            f'sizes="(max-width: 50rem) 92vw, 46rem" width="1600" height="800" alt="{alt}" decoding="async">'
             f'<figcaption><span class="foto-banda__pie">{pie}</span>'
             f'<span class="foto-banda__credito">Foto: <a href="{pagina}">{autor}</a>, Unsplash</span></figcaption></figure>')
 
@@ -146,7 +147,7 @@ PLANTILLA = """<!doctype html>
 <link rel="preconnect" href="https://fonts.gstatic.com" crossorigin>
 <link rel="preload" as="style" href="https://fonts.googleapis.com/css2?family=Caveat:wght@500..700&family=Open+Sans:ital,wght@0,400..800;1,400&family=Playfair+Display:ital,wght@0,500..700;1,600&display=swap" onload="this.onload=null;this.rel='stylesheet'">
 <noscript><link rel="stylesheet" href="https://fonts.googleapis.com/css2?family=Caveat:wght@500..700&family=Open+Sans:ital,wght@0,400..800;1,400&family=Playfair+Display:ital,wght@0,500..700;1,600&display=swap"></noscript>
-<link rel="stylesheet" href="assets/estilos.css">
+<link rel="stylesheet" href="assets/estilos.css?v={v}">
 </head>
 <body>
 <a class="saltar" href="#contenido">Saltar al contenido</a>
@@ -167,7 +168,7 @@ PLANTILLA = """<!doctype html>
 <p class="pie">Trabajo de clase elaborado por {equipo}. Las cifras llevan su fecha y su fuente; la lista completa está en <a href="referencias.html">Referencias y webs</a>.</p>
 </main>
 </div>
-<script src="assets/sitio.js" defer></script>
+<script src="assets/sitio.js?v={v}" defer></script>
 </body>
 </html>
 """
@@ -203,7 +204,16 @@ def siguiente(i: int) -> str:
     return '<nav class="siguiente" aria-label="Página anterior y siguiente">' + "".join(partes) + "</nav>"
 
 
+def version() -> str:
+    """Huella corta del contenido de estilos y guion."""
+    h = hashlib.sha1()
+    for nombre in ("estilos.css", "sitio.js"):
+        h.update((SITIO / "assets" / nombre).read_bytes())
+    return h.hexdigest()[:8]
+
+
 def main() -> None:
+    v = version()
     for i, (archivo, _, _, titulo, descripcion) in enumerate(PAGINAS):
         cuerpo = (SRC / archivo).read_text(encoding="utf-8")
         # ilustraciones: {{ilu:nombre}}
@@ -222,6 +232,7 @@ def main() -> None:
             equipo=EQUIPO,
             cuerpo=cuerpo,
             siguiente=siguiente(i),
+            v=v,
         )
         (SITIO / archivo).write_text(html, encoding="utf-8")
         print("ok", archivo, len(html))
